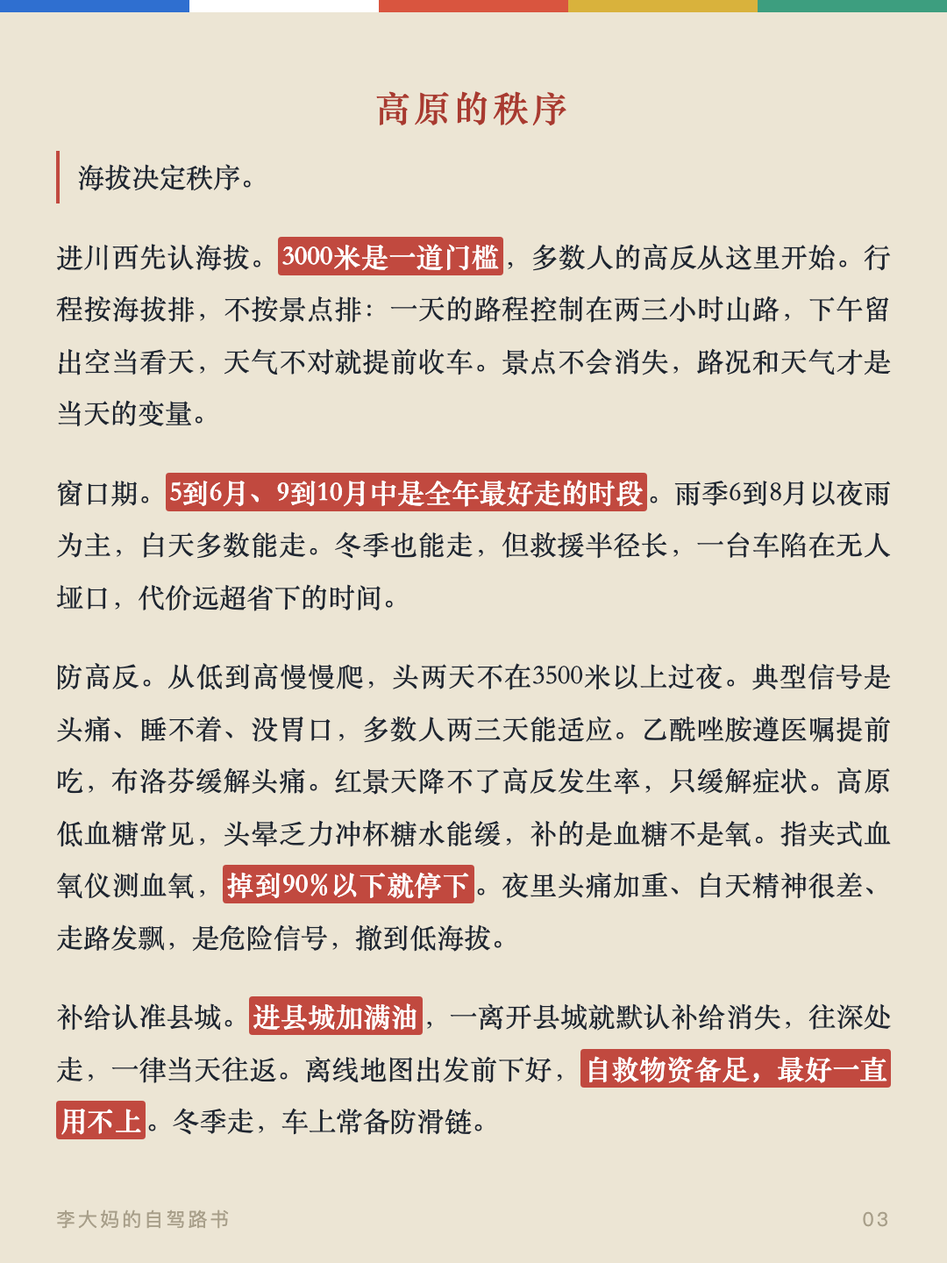
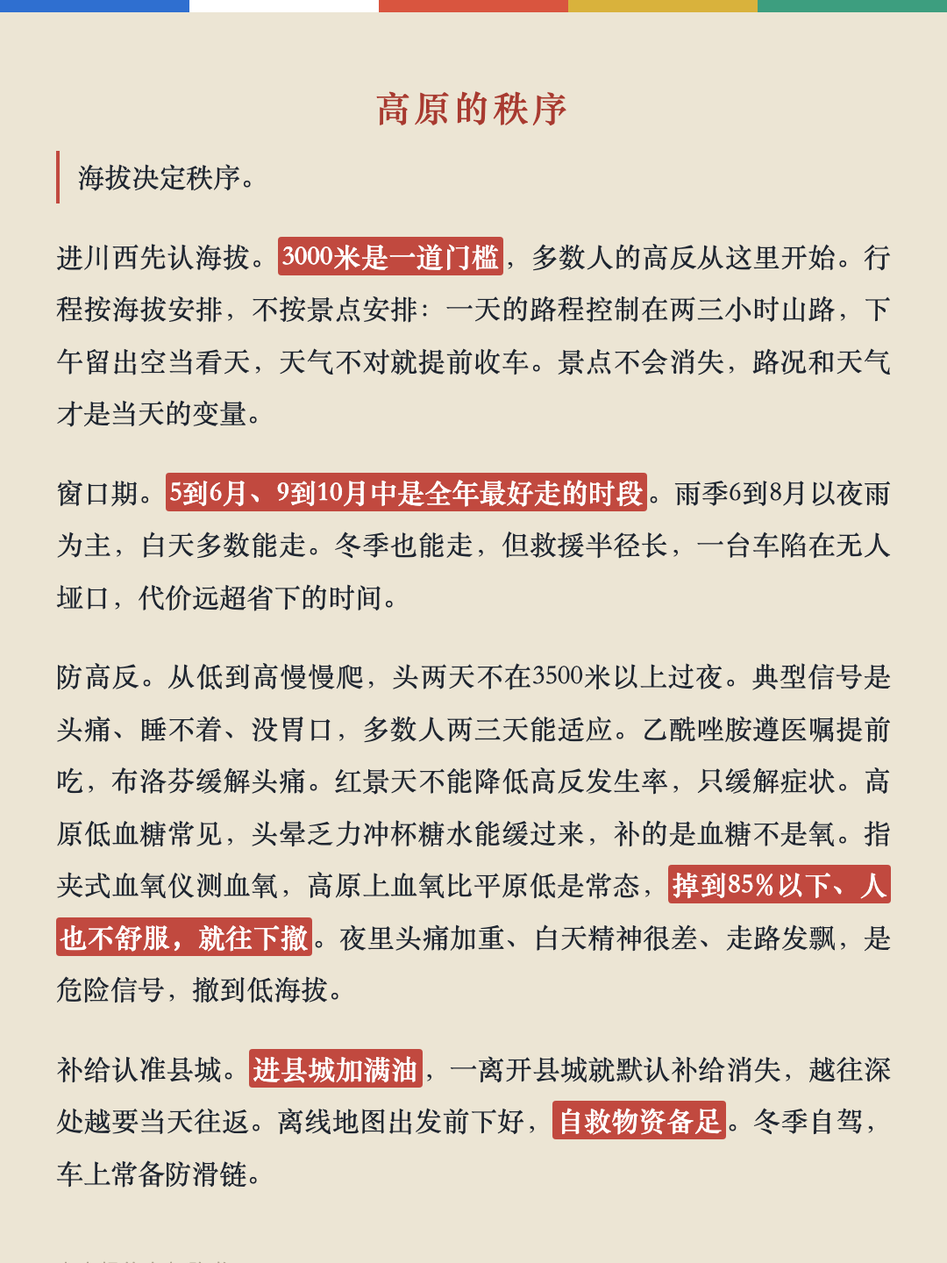
第二轮 review：拒绝单字动词收尾 + 血氧阈值修正
- 删「最好一直用不上」后半句；冬季走→冬季自驾
- 行程按海拔安排；能缓→能缓过来；降不了→不能降低
- 血氧：90→85%（WebSearch核实高原正常范围与下撤线），补宾语「往下撤」
- 往深处走→越往深处越要当天往返
- 17页 H=1345 无溢出无孤字，重截 card-1/3/9/11/12

Changed region(s): [[0.0611, 0.5938, 0.9472, 0.9688], [0.0611, 0.2188, 0.9472, 0.3438]]

diff --git a/cards.html b/cards.html
@@ -127,7 +127,7 @@
 
 <div class="card" id="card2"><div class="flag" aria-hidden="true"><span style="background:var(--flag-blue)"></span><span style="background:var(--flag-white)"></span><span style="background:var(--flag-red)"></span><span style="background:var(--flag-yellow)"></span><span style="background:var(--flag-green)"></span></div><div class="card__inner"><h3>与人相处</h3><p><strong>牧民。</strong> 牛羊是牧民的主要家当。遇到牧群，放慢车速、不鸣笛，等它们过。拍牧民和牲畜，先打招呼再举相机。牧场的帐篷和围栏，不随便进。</p><p><strong>匠人。</strong> 进工坊先问能不能看，问手艺、问工序，匠人愿意聊就聊。工具和材料不上手碰。买现货，半成品和机压仿品不碰。</p><p><strong>僧侣。</strong> 称呼用“师父”或“上师”。进大殿脱帽、轻声、顺时针走，不拍照、不指佛像。法会时安静看，不打断、不围观起哄。</p><p><strong>司机和本地人。</strong> 见面一句“扎西德勒”，气氛就开了。问路、问价，态度客气，多数人都愿意答。高原上的人大多直接，不绕弯。</p><p><strong>买东西。</strong> 讲好价就认，不反复缠价。看上了再还价，压完不买<span class="nowrap">最伤和气。</span></p><p><strong>拍照。</strong> 拍人先问，拍寺院内部和法会先看有没有禁令。相机镜头对着人的时候，先问一句，多数人会同意的。</p><div class="card__foot"><span>李大妈的自驾路书</span><span>02</span></div></div></div>
 
-<div class="card" id="card3"><div class="flag" aria-hidden="true"><span style="background:var(--flag-blue)"></span><span style="background:var(--flag-white)"></span><span style="background:var(--flag-red)"></span><span style="background:var(--flag-yellow)"></span><span style="background:var(--flag-green)"></span></div><div class="card__inner"><h2>高原的秩序</h2><p class="card__lead">海拔决定秩序。</p><p>进川西先认海拔。<strong>3000米是一道门槛</strong>，多数人的高反从这里开始。行程按海拔排，不按景点排：一天的路程控制在两三小时山路，下午留出空当看天，天气不对就提前收车。景点不会消失，路况和天气才是当天的变量。</p><p>窗口期。<strong>5到6月、9到10月中是全年最好走的时段</strong>。雨季6到8月以夜雨为主，白天多数能走。冬季也能走，但救援半径长，一台车陷在无人垭口，代价远超省下的时间。</p><p>防高反。从低到高慢慢爬，头两天不在3500米以上过夜。典型信号是头痛、睡不着、没胃口，多数人两三天能适应。乙酰唑胺遵医嘱提前吃，布洛芬缓解头痛。红景天降不了高反发生率，只缓解症状。高原低血糖常见，头晕乏力冲杯糖水能缓，补的是血糖不是氧。指夹式血氧仪测血氧，<strong>掉到90%以下就停下</strong>。夜里头痛加重、白天精神很差、走路发飘，是危险信号，撤到低海拔。</p><p>补给认准县城。<strong>进县城加满油</strong>，一离开县城就默认补给消失，往深处走，一律当天往返。离线地图出发前下好，<strong>自救物资备足，最好一直用不上</strong>。冬季走，车上常备防滑链。</p><div class="card__foot"><span>李大妈的自驾路书</span><span>03</span></div></div></div>
+<div class="card" id="card3"><div class="flag" aria-hidden="true"><span style="background:var(--flag-blue)"></span><span style="background:var(--flag-white)"></span><span style="background:var(--flag-red)"></span><span style="background:var(--flag-yellow)"></span><span style="background:var(--flag-green)"></span></div><div class="card__inner"><h2>高原的秩序</h2><p class="card__lead">海拔决定秩序。</p><p>进川西先认海拔。<strong>3000米是一道门槛</strong>，多数人的高反从这里开始。行程按海拔安排，不按景点安排：一天的路程控制在两三小时山路，下午留出空当看天，天气不对就提前收车。景点不会消失，路况和天气才是当天的变量。</p><p>窗口期。<strong>5到6月、9到10月中是全年最好走的时段</strong>。雨季6到8月以夜雨为主，白天多数能走。冬季也能走，但救援半径长，一台车陷在无人垭口，代价远超省下的时间。</p><p>防高反。从低到高慢慢爬，头两天不在3500米以上过夜。典型信号是头痛、睡不着、没胃口，多数人两三天能适应。乙酰唑胺遵医嘱提前吃，布洛芬缓解头痛。红景天不能降低高反发生率，只缓解症状。高原低血糖常见，头晕乏力冲杯糖水能缓过来，补的是血糖不是氧。指夹式血氧仪测血氧，高原上血氧比平原低是常态，<strong>掉到85%以下、人也不舒服，就往下撤</strong>。夜里头痛加重、白天精神很差、走路发飘，是危险信号，撤到低海拔。</p><p>补给认准县城。<strong>进县城加满油</strong>，一离开县城就默认补给消失，越往深处越要当天往返。离线地图出发前下好，<strong>自救物资备足</strong>。冬季自驾，车上常备防滑链。</p><div class="card__foot"><span>李大妈的自驾路书</span><span>03</span></div></div></div>
 
 <div class="card" id="card4"><div class="flag" aria-hidden="true"><span style="background:var(--flag-blue)"></span><span style="background:var(--flag-white)"></span><span style="background:var(--flag-red)"></span><span style="background:var(--flag-yellow)"></span><span style="background:var(--flag-green)"></span></div><div class="card__inner"><h2>山河的地图</h2><p class="card__lead">山河决定地图。山脉怎么切，路就怎么修。</p><p>川西怎么来的。约4000万到5000万年前，印度板块撞上欧亚板块，把一片浅海抬成陆地，就是青藏高原，川西在高原的东南缘。碰撞到现在没停，高原还在缓慢升高。</p><p>山脉全是南北走向。横断山把川西切成一列列山岭，从东往西：邛崃山，四姑娘山在主脊上；大雪山，贡嘎山海拔7508.9米，蜀山之王；沙鲁里山；雀儿山。山与山之间夹着河谷，路顺着河谷修，镇子落在河谷里。<strong>川西的聚落沿山河分布，不按行政区划。</strong></p><p>河流往三处去。东部是大渡河，小金、金川、丹巴都在它的水系里；雅砻江从甘孜县城边流过；金沙江是德格的西界，德格县城在金沙江东岸。三条江分头汇进长江。</p><p><strong>海子是古冰川留下的湖。</strong>冰期冰川刨出的洼地积水成湖，理塘到稻城之间的海子山，古冰川退去后留下1145个高原湖泊。单个看，康定的木格措、九龙的伍须海、巴塘的措普湖各有各的颜色，德格雀儿山下的新路海紧挨着雪峰。</p><div class="card__foot"><span>李大妈的自驾路书</span><span>04</span></div></div></div>
 
@@ -143,9 +143,9 @@
 
 <div class="card" id="card10"><div class="flag" aria-hidden="true"><span style="background:var(--flag-blue)"></span><span style="background:var(--flag-white)"></span><span style="background:var(--flag-red)"></span><span style="background:var(--flag-yellow)"></span><span style="background:var(--flag-green)"></span></div><div class="card__inner"><p>路边的符号，各有含义。经幡也叫风马旗，五种颜色对应蓝天、白云、红火、江河、大地，挂在山顶风口，<strong>藏人相信风吹动一次等于诵经一次</strong>。玛尼堆是刻了六字真言的石块堆，路人经过会念着真言添一块石头，不搬走当纪念品。白塔源于古印度的覆钵式佛塔，路过捡块石头放上去，或献条哈达许愿。转经筒里装着经文，转一圈等于念诵一遍。六字真言“唵嘛呢叭咪吽”是观世音菩萨的总持咒。</p><p>和信仰打交道，有几条规矩：<strong>绕行一律顺时针，只有苯教是逆时针</strong>。磕长头是身敬、语敬、意敬三者合一，额头叩地的瞬间，心里同时念咒、观想。煨桑是烧香柏枝，也是祈愿的仪式。献哈达要看对象：白色最普遍，黄色献给活佛和高僧，五彩哈达被视为菩萨的衣裳，只在隆重场合用。<strong>哈达只递到对方手里，不能挂脖子上，只有长辈给晚辈才往脖子上搭</strong>。天葬是藏人把遗体布施给神鹰，<strong>全程严禁围观、拍照，当地有明文规定，连打听都不要</strong>。另有几条硬规矩：<strong>不摸别人的头，佛像、唐卡、经书不指</strong>，非要指就五指并拢、手心朝上，不进人家供奉的佛堂，不取献给塔上的供品，过门槛不踩。</p><p>川西的佛学院，把藏地的学问办在草原和山沟里。寺院的分科叫“五明”：<strong>工巧明是工艺，医方明是医学，声明是语言文字，因明是逻辑论辩，内明是佛学；再加上修辞、辞藻、韵律、戏剧、历算五科，合称“十明”。</strong>色达的喇荣、白玉的亚青、德格的佐钦，都是宁玛派的大佛学院，学通五明的僧人，藏语称“班智达”。</p><div class="card__foot"><span>李大妈的自驾路书</span><span>10</span></div></div></div>
 
-<div class="card" id="card11"><div class="flag" aria-hidden="true"><span style="background:var(--flag-blue)"></span><span style="background:var(--flag-white)"></span><span style="background:var(--flag-red)"></span><span style="background:var(--flag-yellow)"></span><span style="background:var(--flag-green)"></span></div><div class="card__inner"><h2>手艺的文明</h2><p class="card__lead">还在挣钱的传承，才是活传承。</p><p>麦宿在德格县金沙江东岸的河谷里，六千多居民有两千多位工匠，分布在三十多个工坊，做十六种手工艺。黑陶、铜铸、唐卡、木雕、藏香、藏纸、藏戏面具、金银加工、牛羊毛编织，被称为“中国藏族传统手工艺之乡”。<strong>它不是摆在展柜里的“非遗秀”</strong>。寺庙要佛像法器，本地人过日子要锅碗和经堂装饰，订单一直不断。麦宿进出不易，外头的东西不好运进来，要用的、要供的都得自己做，手艺就一代代传了下来。最出名的铜铸佛像，老匠人夏雷尼玛的鎏金铜是内地近乎失传的古法，他做的佛像因为工艺古朴精良，常被人冒充古董倒卖，甚至流到了国外。他女儿拍的《麦宿泥塑》纪录片，拿过国际手工艺视频大赛的一等奖。钦乐工坊还在用砂模、失蜡法铸利玛铜。后来县里建了扶贫车间，挂出<strong>“麦宿手造”的品牌</strong>，2024年还到成都开了集市。从一块铜皮到一尊佛像，工坊里能看到整套流程。手工工坊有现货，机压翻模的是仿品。</p><div class="card__foot"><span>李大妈的自驾路书</span><span>11</span></div></div></div>
+<div class="card" id="card11"><div class="flag" aria-hidden="true"><span style="background:var(--flag-blue)"></span><span style="background:var(--flag-white)"></span><span style="background:var(--flag-red)"></span><span style="background:var(--flag-yellow)"></span><span style="background:var(--flag-green)"></span></div><div class="card__inner"><h2>手艺的文明</h2><p class="card__lead">还在挣钱的传承，才是活传承。</p><p>麦宿在德格县金沙江东岸的河谷里，六千多居民有两千多位工匠，分布在三十多个工坊，做十六种手工艺。黑陶、铜铸、唐卡、木雕、藏香、藏纸、藏戏面具、金银加工、牛羊毛编织，被称为“中国藏族传统手工艺之乡”。<strong>它不是摆在展柜里的“非遗秀”</strong>。寺庙要佛像法器，本地人过日子要锅碗和经堂装饰，订单一直不断。麦宿进出不易，外头的东西不好运进来，要用的、要供的都得自己做，手艺就一代代传了下来。最出名的铜铸佛像，老匠人夏雷尼玛的鎏金铜是内地近乎失传的古法，他做的佛像因为工艺古朴精良，常被人冒充古董倒卖，甚至流到了国外。他女儿拍的《麦宿泥塑》纪录片，拿过国际手工艺视频大赛的一等奖。钦乐工坊还在用砂模、失蜡法铸利玛铜。后来县里建了扶贫车间，挂出<strong>“麦宿手造”的品牌</strong>，2024年还到成都开了集市。从一块铜皮到一尊佛像，工坊里能看到整套流程。手工工坊有现货，机压翻模的是仿品。</p><p>白玉河坡号称“格萨尔王的兵器库”，1300多年前就开始铸兵器，现在是国家级非遗“藏族金属锻造技艺”的代表，白玉藏刀最有名。13个行政村、230多家非遗工坊，<strong>是全国最大的藏族金属锻造群落</strong>，年订单超过1200万元。2025年8月，河坡手工艺文旅体融合园区开园，建起了藏族<span class="nowrap">金工博物馆</span>。</p><div class="card__foot"><span>李大妈的自驾路书</span><span>11</span></div></div></div>
 
-<div class="card" id="card12"><div class="flag" aria-hidden="true"><span style="background:var(--flag-blue)"></span><span style="background:var(--flag-white)"></span><span style="background:var(--flag-red)"></span><span style="background:var(--flag-yellow)"></span><span style="background:var(--flag-green)"></span></div><div class="card__inner"><p>白玉河坡号称“格萨尔王的兵器库”，1300多年前就开始铸兵器，现在是国家级非遗“藏族金属锻造技艺”的代表，白玉藏刀最有名。13个行政村、230多家非遗工坊，<strong>是全国最大的藏族金属锻造群落</strong>，年订单超过1200万元。2025年8月，河坡手工艺文旅体融合园区开园，建起了藏族<span class="nowrap">金工博物馆</span>。</p><p>壤塘在阿坝州，藏语意思是“财神居住的地方”，核心是觉囊文化。2010年建起第一个觉囊唐卡传习所，<strong>免费教贫困家庭的青少年，一学就是六到八年</strong>。现在有20多个传习所、3项国家级非遗，壤巴拉非遗传习创业园8万多平方米，聚集唐卡、藏医药、藏陶、藏毯等16类手艺，2024年产值两千多万元。县里还在北京、上海、成都、深圳设了传习基地，60名学员接过故宫藏品唐卡复制的项目。觉囊唐卡工坊进了全国“非遗工坊典型案例”。唐卡的颜色从矿石里磨出来：蓝用青金石，红用朱砂，绿用孔雀石，金是真金箔。矿物不含有机成分，见光也永不褪色，<strong>一张唐卡放几百年也不变样</strong>。</p><p>德格印经院本身是一门还在运转的印刷产业。1729年建，藏了32万余块雕版，其中古旧印版22.8万块，<strong>是全世界手工木刻印版藏量最多的一个地方</strong>。经版内容不止经文：宗教、历史、医学、天文历算、文学、艺术都有，“藏文化大百科全书”这个外号就是这么来的。</p><div class="card__foot"><span>李大妈的自驾路书</span><span>12</span></div></div></div>
+<div class="card" id="card12"><div class="flag" aria-hidden="true"><span style="background:var(--flag-blue)"></span><span style="background:var(--flag-white)"></span><span style="background:var(--flag-red)"></span><span style="background:var(--flag-yellow)"></span><span style="background:var(--flag-green)"></span></div><div class="card__inner"><p>壤塘在阿坝州，藏语意思是“财神居住的地方”，核心是觉囊文化。2010年建起第一个觉囊唐卡传习所，<strong>免费教贫困家庭的青少年，一学就是六到八年</strong>。现在有20多个传习所、3项国家级非遗，壤巴拉非遗传习创业园8万多平方米，聚集唐卡、藏医药、藏陶、藏毯等16类手艺，2024年产值两千多万元。县里还在北京、上海、成都、深圳设了传习基地，60名学员接过故宫藏品唐卡复制的项目。觉囊唐卡工坊进了全国“非遗工坊典型案例”。唐卡的颜色从矿石里磨出来：蓝用青金石，红用朱砂，绿用孔雀石，金是真金箔。矿物不含有机成分，见光也永不褪色，<strong>一张唐卡放几百年也不变样</strong>。</p><p>德格印经院本身是一门还在运转的印刷产业。1729年建，藏了32万余块雕版，其中古旧印版22.8万块，<strong>是全世界手工木刻印版藏量最多的一个地方</strong>。经版内容不止经文：宗教、历史、医学、天文历算、文学、艺术都有，“藏文化大百科全书”这个外号就是这么来的。</p><div class="card__foot"><span>李大妈的自驾路书</span><span>12</span></div></div></div>
 
 <div class="card" id="card13"><div class="flag" aria-hidden="true"><span style="background:var(--flag-blue)"></span><span style="background:var(--flag-white)"></span><span style="background:var(--flag-red)"></span><span style="background:var(--flag-yellow)"></span><span style="background:var(--flag-green)"></span></div><div class="card__inner"><h2>建筑的方言</h2><p class="card__lead">材料决定房子。</p><p>川西的民居，藏寨是主流。石、木、土，山上出什么料就盖什么房，材料定了骨架，骨架定了外观。</p><p>嘉绒藏寨与古碉，在丹巴一带最出名。石木结构，片石砌墙，房子依山势叠在山坡上，顶层外缘围一圈黄、黑、白三色带。甲居藏寨评上“中国最美的六大乡村古镇”之首，中路藏寨海拔2100米。丹巴古碉鼎盛时号称“千碉之国”，梭坡乡的古碉群，是全世界古碉最密集的地方。<strong>碉楼按功能分要隘碉、烽火碉、寨碉、家碉四类，还分雌雄。</strong></p><p>藏寨的结构，从下到上一条线。以甲居藏寨为例，石木结构，三到四层，各层逐层内收，顶上留出晒粮平台。底层圈养牲畜兼做仓库，畜圈的门和人进出的门分开；二层是锅庄火塘、厨房和客堂，一家人围着火塘吃饭说话，是日常生活的中心；三层住人；顶层是经堂，全楼装饰最华美、画满壁画，长者交出管家权后在这里吃斋念经，办婚丧嫁娶时做法事的喇嘛也暂住这层。屋顶四角各凸起一个白石塔，代表山、树、水、地四方神灵，上插经幡；楼沿中间有煨桑炉，有大事时点柏枝祭神。<strong>从牲畜到人再到神，楼层越往上，越靠近精神世界。</strong>层与层之间用独木梯上下。</p><div class="card__foot"><span>李大妈的自驾路书</span><span>13</span></div></div></div>
 

diff --git a/index.html b/index.html
@@ -223,10 +223,10 @@
     <section class="part" id="order">
       <div class="part__head"><span class="part__no" aria-hidden="true">一</span><h2>高原的秩序</h2></div>
       <p class="part__lead">海拔决定秩序。</p>
-      <p>进川西先认海拔。<strong>3000米是一道门槛</strong>，多数人的高反从这里开始。行程按海拔排，不按景点排：一天的路程控制在两三小时山路，下午留出空当看天，天气不对就提前收车。景点不会消失，路况和天气才是当天的变量。</p>
+      <p>进川西先认海拔。<strong>3000米是一道门槛</strong>，多数人的高反从这里开始。行程按海拔安排，不按景点安排：一天的路程控制在两三小时山路，下午留出空当看天，天气不对就提前收车。景点不会消失，路况和天气才是当天的变量。</p>
       <p>窗口期。<strong>5到6月、9到10月中是全年最好走的时段</strong>。雨季6到8月以夜雨为主，白天多数能走。冬季也能走，但救援半径长，一台车陷在无人垭口，代价远超省下的时间。</p>
-      <p>防高反。从低到高慢慢爬，头两天不在3500米以上过夜。典型信号是头痛、睡不着、没胃口，多数人两三天能适应。乙酰唑胺遵医嘱提前吃，布洛芬缓解头痛。红景天降不了高反发生率，只缓解症状。高原低血糖常见，头晕乏力冲杯糖水能缓，补的是血糖不是氧。指夹式血氧仪测血氧，<strong>掉到90%以下就停下</strong>。夜里头痛加重、白天精神很差、走路发飘，是危险信号，撤到低海拔。</p>
-      <p>补给认准县城。<strong>进县城加满油</strong>，一离开县城就默认补给消失，往深处走，一律当天往返。离线地图出发前下好，<strong>自救物资备足，最好一直用不上</strong>。冬季走，车上常备防滑链。</p>
+      <p>防高反。从低到高慢慢爬，头两天不在3500米以上过夜。典型信号是头痛、睡不着、没胃口，多数人两三天能适应。乙酰唑胺遵医嘱提前吃，布洛芬缓解头痛。红景天不能降低高反发生率，只缓解症状。高原低血糖常见，头晕乏力冲杯糖水能缓过来，补的是血糖不是氧。指夹式血氧仪测血氧，高原上血氧比平原低是常态，<strong>掉到85%以下、人也不舒服，就往下撤</strong>。夜里头痛加重、白天精神很差、走路发飘，是危险信号，撤到低海拔。</p>
+      <p>补给认准县城。<strong>进县城加满油</strong>，一离开县城就默认补给消失，越往深处越要当天往返。离线地图出发前下好，<strong>自救物资备足</strong>。冬季自驾，车上常备防滑链。</p>
     </section>
 
     <!-- 二、山河的地图 -->

diff --git a/gen_cards.py b/gen_cards.py
@@ -34,10 +34,10 @@ BODY_STREAM = [
   ('p', '<strong>拍照。</strong> 拍人先问，拍寺院内部和法会先看有没有禁令。相机镜头对着人的时候，先问一句，多数人会同意的。'),
   ('h2', '高原的秩序'),
   ('lead', '海拔决定秩序。'),
-  ('p', '进川西先认海拔。<strong>3000米是一道门槛</strong>，多数人的高反从这里开始。行程按海拔排，不按景点排：一天的路程控制在两三小时山路，下午留出空当看天，天气不对就提前收车。景点不会消失，路况和天气才是当天的变量。'),
+  ('p', '进川西先认海拔。<strong>3000米是一道门槛</strong>，多数人的高反从这里开始。行程按海拔安排，不按景点安排：一天的路程控制在两三小时山路，下午留出空当看天，天气不对就提前收车。景点不会消失，路况和天气才是当天的变量。'),
   ('p', '窗口期。<strong>5到6月、9到10月中是全年最好走的时段</strong>。雨季6到8月以夜雨为主，白天多数能走。冬季也能走，但救援半径长，一台车陷在无人垭口，代价远超省下的时间。'),
-  ('p', '防高反。从低到高慢慢爬，头两天不在3500米以上过夜。典型信号是头痛、睡不着、没胃口，多数人两三天能适应。乙酰唑胺遵医嘱提前吃，布洛芬缓解头痛。红景天降不了高反发生率，只缓解症状。高原低血糖常见，头晕乏力冲杯糖水能缓，补的是血糖不是氧。指夹式血氧仪测血氧，<strong>掉到90%以下就停下</strong>。夜里头痛加重、白天精神很差、走路发飘，是危险信号，撤到低海拔。'),
-  ('p', '补给认准县城。<strong>进县城加满油</strong>，一离开县城就默认补给消失，往深处走，一律当天往返。离线地图出发前下好，<strong>自救物资备足，最好一直用不上</strong>。冬季走，车上常备防滑链。'),
+  ('p', '防高反。从低到高慢慢爬，头两天不在3500米以上过夜。典型信号是头痛、睡不着、没胃口，多数人两三天能适应。乙酰唑胺遵医嘱提前吃，布洛芬缓解头痛。红景天不能降低高反发生率，只缓解症状。高原低血糖常见，头晕乏力冲杯糖水能缓过来，补的是血糖不是氧。指夹式血氧仪测血氧，高原上血氧比平原低是常态，<strong>掉到85%以下、人也不舒服，就往下撤</strong>。夜里头痛加重、白天精神很差、走路发飘，是危险信号，撤到低海拔。'),
+  ('p', '补给认准县城。<strong>进县城加满油</strong>，一离开县城就默认补给消失，越往深处越要当天往返。离线地图出发前下好，<strong>自救物资备足</strong>。冬季自驾，车上常备防滑链。'),
   ('h2', '山河的地图'),
   ('lead', '山河决定地图。山脉怎么切，路就怎么修。'),
   ('p', '川西怎么来的。约4000万到5000万年前，印度板块撞上欧亚板块，把一片浅海抬成陆地，就是青藏高原，川西在高原的东南缘。碰撞到现在没停，高原还在缓慢升高。'),

diff --git a/worklog-2026-08-28.md b/worklog-2026-08-28.md
@@ -49,5 +49,17 @@
 - lead：「看墙色，认教派。」→「看墙色，分辨教派。」
 - 正文：「认教派，看寺庙外墙的颜色。」→「分辨教派，看寺庙外墙的颜色。」
 
+### 4.6 第二轮 user review（拒绝单字动词收尾）
+用户看 PNG 逐句挑单字动词收尾，原则：「单字动词，实在太容易AI腔了」「拒绝单字」。改动：
+- 补给：「自救物资备足，最好一直用不上」删后半句 →「自救物资备足」
+- 补给：「冬季走」→「冬季自驾」
+- 防高反：「行程按海拔排，不按景点排」→「行程按海拔安排，不按景点安排」
+- 防高反：「头晕乏力冲杯糖水能缓」→「能缓过来」
+- 防高反：「红景天降不了高反发生率」→「红景天不能降低高反发生率」
+- 血氧：「掉到90%以下就停下」→「高原上血氧比平原低是常态，<strong>掉到85%以下、人也不舒服，就往下撤</strong>」（90→85 经 WebSearch 核实：高原正常血氧 3500m 约85–94%、4000m 约80–90%，主流下撤线是持续低于85%）
+- 补给：「往深处走，一律当天往返」→「越往深处越要当天往返」
+
+验证：17页、H=1345、无溢出（最小间隙40px）、无孤字。重截 card-1/3/9/11/12。
+
 ## 待用户人工检查
 - 17 张 PNG（cards/card-1.png 至 card-17.png）：新增「遇见险情怎么办」章节排版、并页效果
